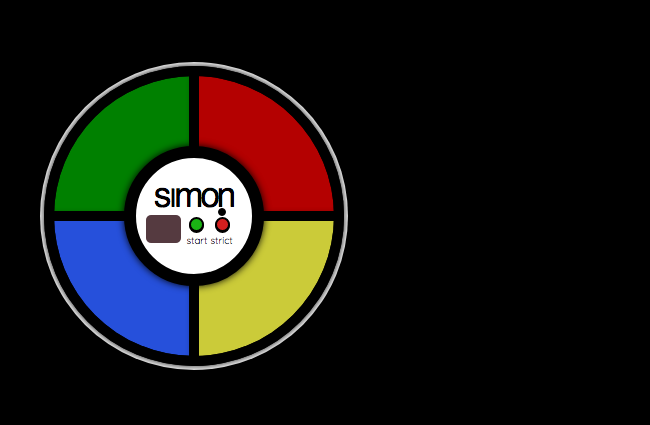
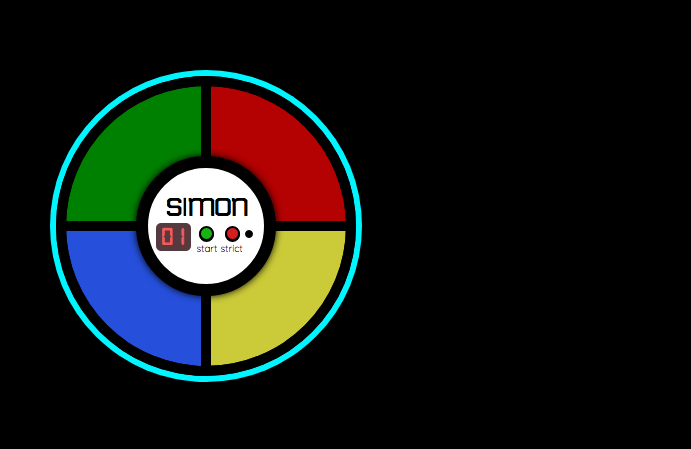
image updates/repositioning

Changed region(s): [[0.0615, 0.1224, 0.5538, 0.8871]]

diff --git a/projects/minigames/index.html b/projects/minigames/index.html
@@ -50,17 +50,17 @@
 					<div class="relative">
 					<img 	 
 						 id="tictactoeGame"
-						 src="projectsImages/TTTSS.png" alt="Tic Tac Toe project screenshot">
+						 src="projectsImages/tttSS.png" alt="Tic Tac Toe project screenshot">
 						<div class="absoluteText TTTText">
 							<h3>Tic Tac Toe</h3>
 							<h5>Match three in a row, column, or diagonal to win!</h5>
 						</div>
 					</div>
 				</li>
-				<li>
+				<li id="simonGame">
 					<div class="relative">
 						<img 
-							 id="simonGame"
+							 
 							 src="projectsImages/simonSS.png" alt="Simon project screenshot">
 						<div class="absoluteText simonText">
 							<h3>Simon</h3>

diff --git a/projects/minigames/css/style.css b/projects/minigames/css/style.css
@@ -143,7 +143,7 @@ main {
 .absoluteText {
 	position:absolute;
 	color:white;
-	border:2px solid white;
+	border:4px solid white;
 }
 .simonText {
 	top:23%;
@@ -154,14 +154,16 @@ main {
 	height:175px;
 	width:160px;
 }
+.absoluteText:hover {
+	border:4px solid #00f5ff;
+}
 .TTTText {
-	
 	top:30%;
-	left: 50%;
+	left: 55%;
 	padding-left:35px;
 	padding-right:35px;
 	height:130px;
-	width:200px;
+	width:180px;
 }
 @media screen and (max-width:550px) {
 

diff --git a/projects/minigames/scripts/tttmain.js b/projects/minigames/scripts/tttmain.js
@@ -785,4 +785,5 @@ function generateRandom(){
 	$("#playPrompt").show();
 	startBoard();	
 	updateBoard();
+	
 
